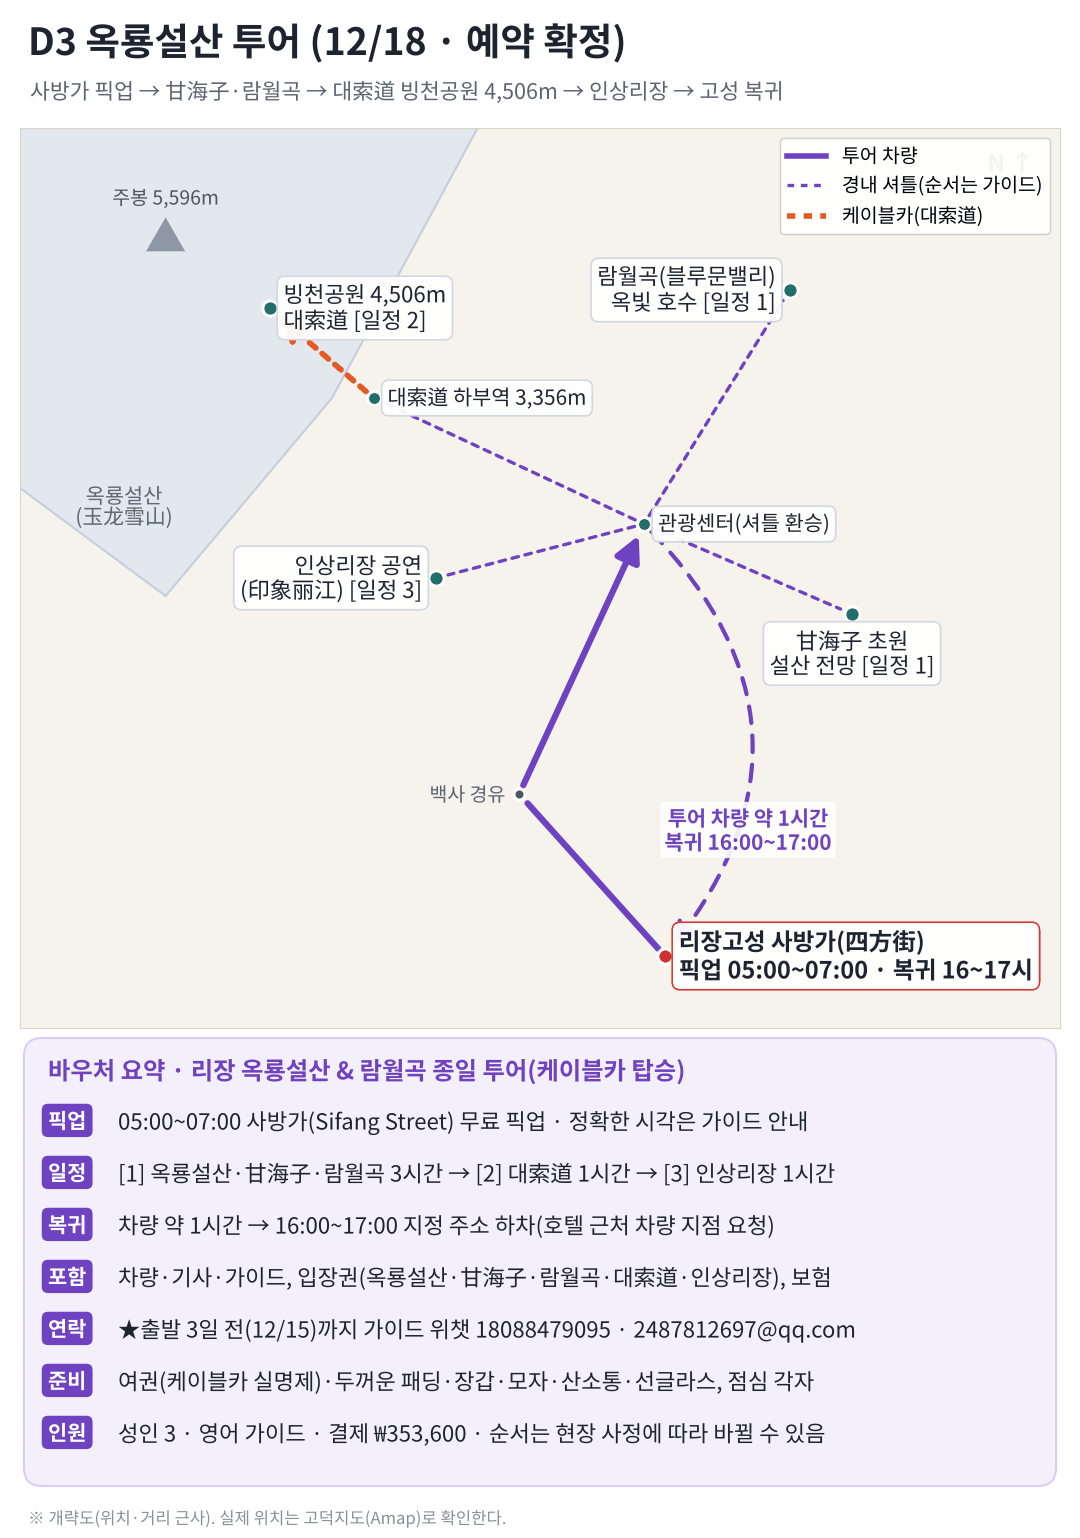
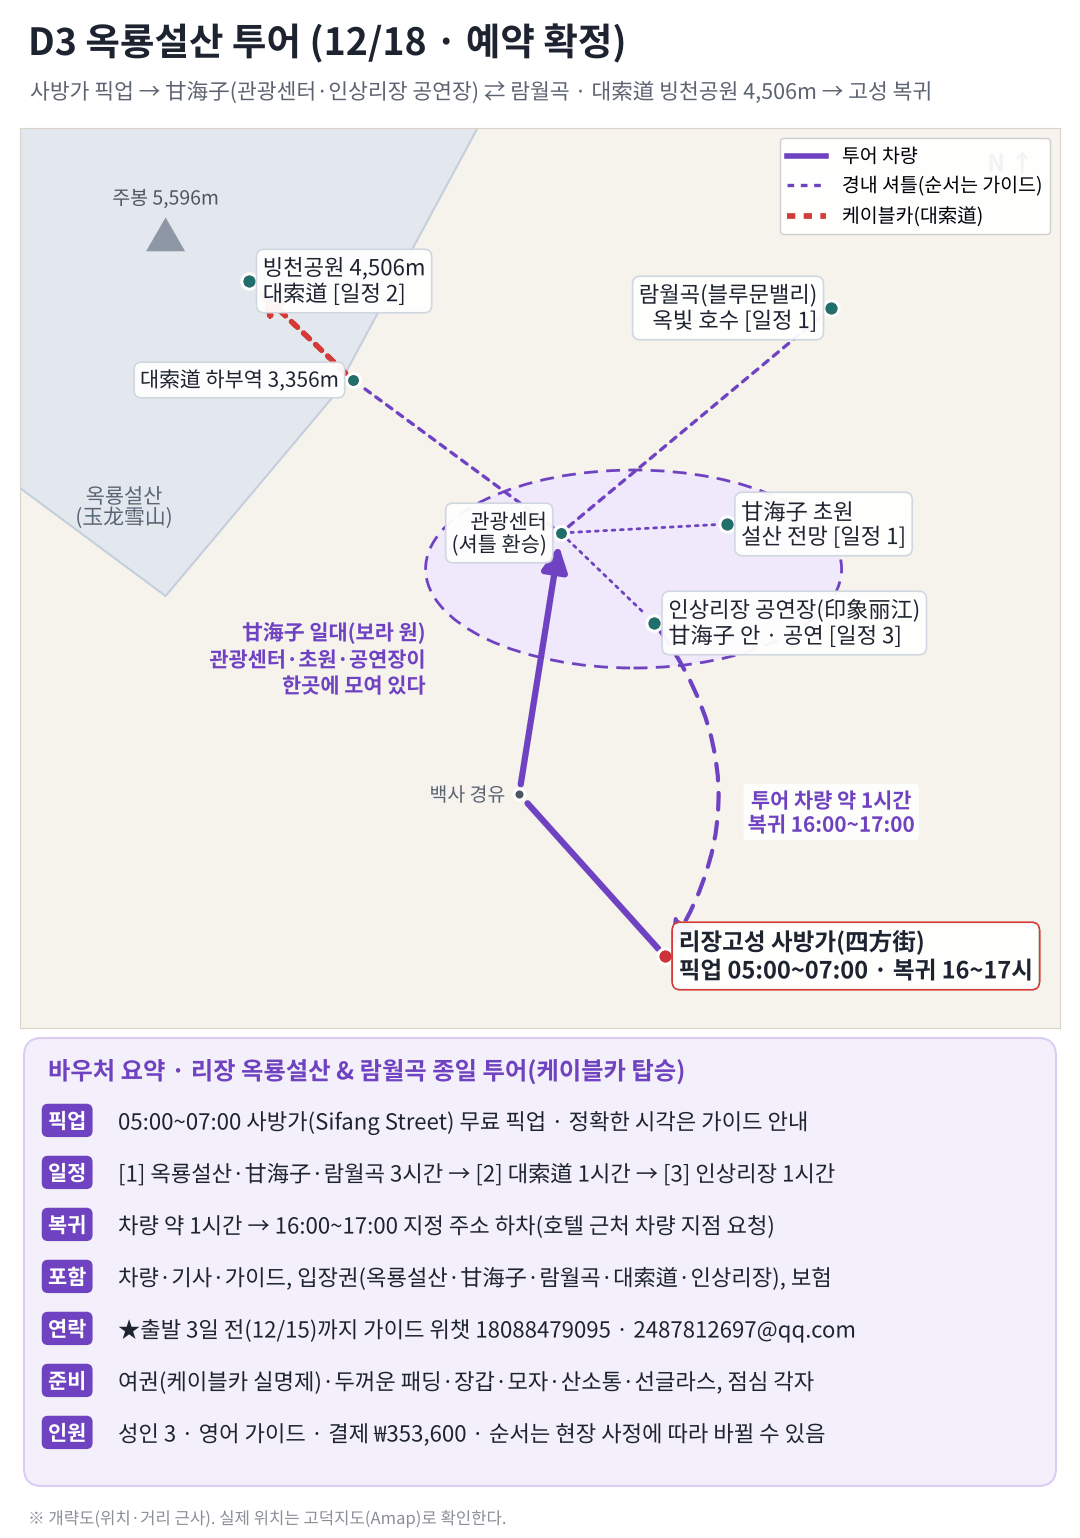
D3 지도: 인상리장 공연장을 甘海子(관광센터 옆) 안으로 옮김(웹 1.5.7 배포·앱 1.5.7 릴리스)
Claude-Session: https://claude.ai/code/session_01RqJ3Se7kzhbz5fxXJgdegj

diff --git a/android/app/src/main/java/kr/koasis/travelyunnan/BuildConfigInfo.kt b/android/app/src/main/java/kr/koasis/travelyunnan/BuildConfigInfo.kt
@@ -1,5 +1,5 @@
 package kr.koasis.travelyunnan
 
 object BuildConfigInfo {
-    const val VERSION = "1.5.6"
+    const val VERSION = "1.5.7"
 }

diff --git a/tools/draw_maps.py b/tools/draw_maps.py
@@ -17,7 +17,7 @@ import matplotlib
 
 matplotlib.use("Agg")
 import matplotlib.pyplot as plt  # noqa: E402
-from matplotlib.patches import FancyArrowPatch, FancyBboxPatch, Polygon, Circle  # noqa: E402
+from matplotlib.patches import FancyArrowPatch, FancyBboxPatch, Polygon, Circle, Ellipse  # noqa: E402
 
 REPO = Path(__file__).resolve().parent.parent
 OUT = REPO / "assets" / "maps"
@@ -425,40 +425,47 @@ def map_d2():
 
 # ---------------------------------------------------------------- D3 옥룡설산 투어
 def map_d3():
-    """도식 배치. 관광센터에서 셔틀로 각 명소를 오가며, 순서는 가이드가 정한다"""
-    f = Fig("map_d3", "D3 옥룡설산 투어 (12/18 · 예약 확정)", "사방가 픽업 → 甘海子·람월곡 → 대索道 빙천공원 4,506m → 인상리장 → 고성 복귀",
+    """도식 배치. 관광센터·인상리장 공연장은 甘海子 초원 한곳에 모여 있고, 거기서 셔틀로 람월곡·대索道를 오간다.
+    순서는 가이드가 정한다"""
+    f = Fig("map_d3", "D3 옥룡설산 투어 (12/18 · 예약 확정)", "사방가 픽업 → 甘海子(관광센터·인상리장 공연장) ⇄ 람월곡 · 대索道 빙천공원 4,506m → 고성 복귀",
             (0, 100), (0, 100), map_h=900, panels=[("tl", 470)])
     ax = f.ax
     ax.add_patch(Polygon([(0, 100), (0, 60), (14, 48), (30, 70), (44, 100)], closed=True, fc="#e3e8ef", ec="#c5cfdb", lw=1.5, zorder=0.6))
     ax.text(10, 56, "옥룡설산\n(玉龙雪山)", fontsize=15, color="#56657a", ha="center", zorder=2)
     f.mountain((14, 88), "주봉 5,596m", 14)
-    lj, bs, cen = (62, 8), (48, 26), (60, 56)
-    gh, imp, low, up, lan = (80, 46), (40, 50), (34, 70), (24, 80), (74, 82)
+    lj, bs, cen = (62, 8), (48, 26), (52, 55)
+    gh, imp, low, up, lan = (68, 56), (61, 45), (32, 72), (22, 83), (78, 80)
+    # 甘海子 일대: 관광센터·초원·인상리장 공연장이 한곳(서로 걸어서 몇 분)
+    ax.add_patch(Ellipse((59, 51), 40, 22, fc="#efe9fb", ec=C["tour"], lw=2, ls=(0, (5, 3)), zorder=0.8))
+    ax.text(39, 41, "甘海子 일대(보라 원)\n관광센터·초원·공연장이\n한곳에 모여 있다", fontsize=15, color=C["tour"], fontweight="bold",
+            ha="right", va="center", linespacing=1.25, zorder=3)
     f.place(lj, "리장고성 사방가(四方街)\n픽업 05:00~07:00 · 복귀 16~17시", "lodging", "r",
             H("사방가 픽업(Sifang Street)", "place", "sifang", ["Sifang", "사방가", "픽업"], "四方街",
               "D3 투어 무료 픽업. 정확한 시각·만남 위치는 가이드 위챗 안내"))
     f.dot(bs, "poi", 8)
     f.label(bs, "백사 경유", "l", size=14, box=False, color=MUTED)
-    f.place(cen, "관광센터(셔틀 환승)", "place", "r",
+    f.place(cen, "관광센터\n(셔틀 환승)", "place", "l",
             H("옥룡설산 관광센터", "place", "yulong_center", ["관광센터"], "玉龙雪山游客中心", "셔틀 환승·식당"), size=15, dot=10)
-    f.place(gh, "甘海子 초원\n설산 전망 [일정 1]", "place", "b",
+    f.place(gh, "甘海子 초원\n설산 전망 [일정 1]", "place", "r",
             H("감해자(甘海子)", "place", "ganhaizi", ["甘海子", "감해자"], "甘海子", "설산 전망 초원 · 투어 포함"), size=16)
     f.place(lan, "람월곡(블루문밸리)\n옥빛 호수 [일정 1]", "place", "l",
             H("람월곡(블루문밸리)", "place", "lanyuegu", ["람월곡", "蓝月谷", "블루문"], "蓝月谷", "투어 포함 · 전동차·도보"), size=16)
-    f.place(low, "대索道 하부역 3,356m", "place", "r",
+    f.place(low, "대索道 하부역 3,356m", "place", "l",
             H("대索道 하부역", "place", "yulong_cableway", ["대索道", "케이블카", "하부역"], "玉龙雪山大索道",
               "투어 포함. 여권 실명 확인, 대기 길 수 있음"), size=15, dot=10)
     f.place(up, "빙천공원 4,506m\n대索道 [일정 2]", "place", "r",
             H("빙천공원 4,506m", "place", "yulong_cableway", ["빙천공원", "4,506"], "冰川公园",
               "강풍·영하 15도 안팎. 산소통, 천천히 걷기"), size=16)
-    f.place(imp, "인상리장 공연\n(印象丽江) [일정 3]", "place", "l",
+    f.place(imp, "인상리장 공연장(印象丽江)\n甘海子 안 · 공연 [일정 3]", "place", "r",
             H("인상리장 공연장", "place", "impression", ["인상리장", "印象丽江", "공연"], "印象丽江",
               "야외 공연 약 1시간 · 투어 포함"), size=16)
     f.path([lj, bs, cen], "tour", lw=4.5)
-    f.seg(cen, lj, "tour", rad=-0.45, lw=3, dashed=(0, (4, 3)))
-    f.tag((70, 22), "투어 차량 약 1시간\n복귀 16:00~17:00", "tour", size=15)
-    for p in (gh, lan, low, imp):
+    f.seg(imp, lj, "tour", rad=-0.35, lw=3, dashed=(0, (4, 3)))
+    f.tag((78, 24), "투어 차량 약 1시간\n복귀 16:00~17:00", "tour", size=15)
+    for p in (lan, low):
         f.seg(cen, p, "tour", lw=2.4, head=False, dashed=(0, (2, 2)))
+    for p in (gh, imp):
+        f.seg(cen, p, "tour", lw=2, head=False, dashed=(0, (1, 2)))
     f.seg(low, up, "car", lw=4, dashed=(0, (1.5, 1.5)))
     from matplotlib.lines import Line2D
     ax.legend([Line2D([], [], color=C["tour"], lw=4), Line2D([], [], color=C["tour"], lw=2.4, ls=(0, (2, 2))),

diff --git a/docs/웹버전_구축절차서.md b/docs/웹버전_구축절차서.md
@@ -606,3 +606,9 @@ export const logout = () => localStorage.removeItem('login_email');
 
 - 검색칸 아래에 `전체 · 숙소 · 관광지·장소 · 식당` 버튼(곳 수 표시)을 넣었다. 누르면 그 분류만 보이고, 오른쪽 위 전체 복사도 보이는 목록만 복사한다. 검색어와 함께 쓸 수 있다(웹). 앱은 같은 버튼을 목록 위에 둔다.
 - 브라우저 점검 104항목, 앱 단위 테스트 62개 통과. 앱 1.5.6(versionCode 30).
+
+### 2026-11-07 · D3 지도: 인상리장 공연장을 甘海子 안으로 (웹 1.5.7 · 앱 1.5.7 릴리스)
+
+- 인상리장 공연장(印象丽江)은 甘海子 초원 안, 옥룡설산 관광센터 바로 옆에 있다. 지도에서 관광센터 반대편에 따로 떨어져 있던 것을 고쳐, 관광센터·초원·공연장을 보라 점선 원 하나('甘海子 일대')로 묶었다. 셔틀은 甘海子 ⇄ 람월곡, 甘海子 ⇄ 대索道 하부역만 오가고, 복귀 차량은 공연장에서 출발하게 그렸다.
+- 관광지 정보 '인상리장 공연'에도 위치(甘海子 안·관광센터 옆)를 적었다. 지도 핫스팟 다시 계산.
+- 브라우저 점검 104항목, 앱 단위 테스트 62개 통과. 앱 1.5.7(versionCode 31).
